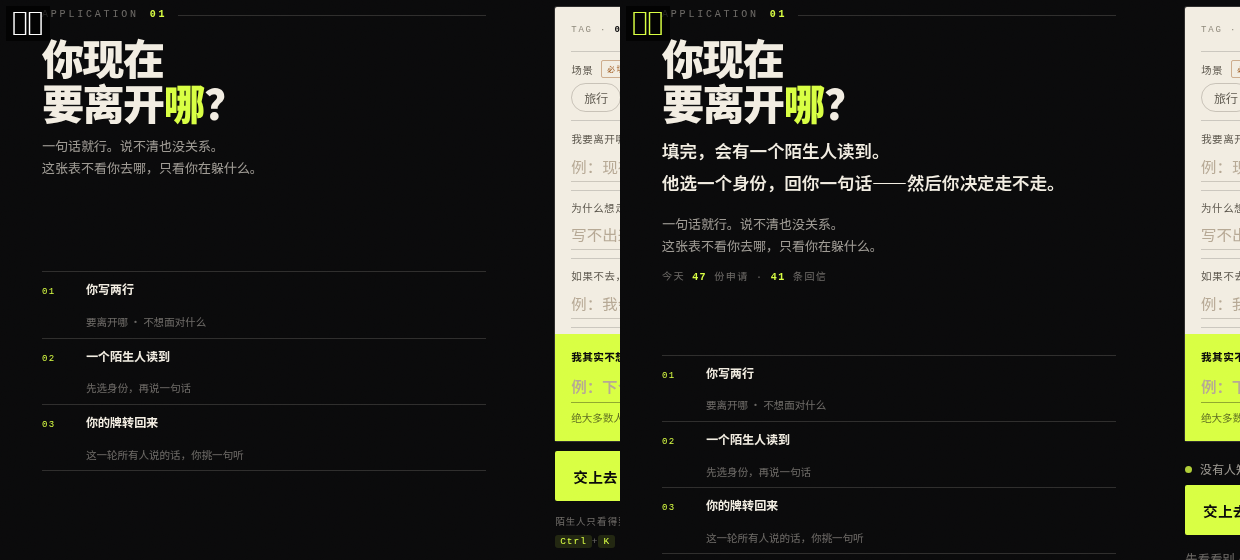
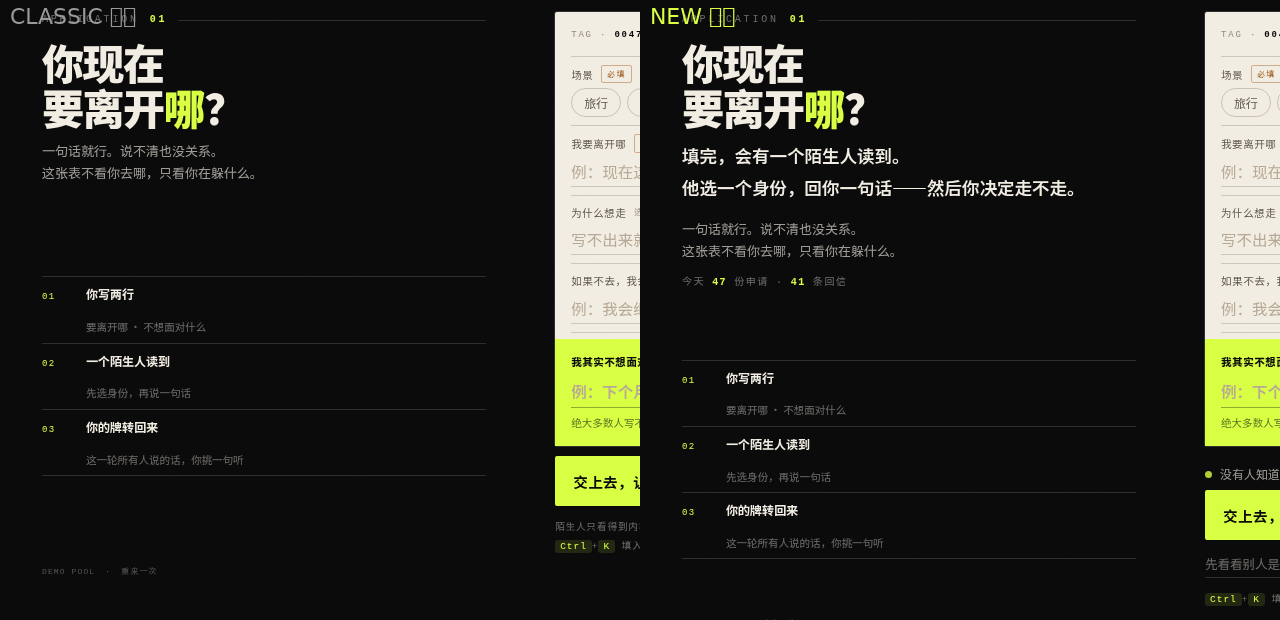
feat: 新版首屏摆一张真实的牌，让用户「看见」而不是「读到」
用户反馈：一句机制说明变化太小，没有体感。

改成：首屏左侧直接放一张别人交上来的行李牌——
「离开：这个城市 / 不想面对：我已经三年没交过新朋友」
右下角盖一个红色「27 人说再想想」的章。

打开的第一眼看到的不是问卷，是另一个人的两行字。
这张卡的内容来自 data.js 的演示池，数字来自 hydrate，在线轨是真实值。

「现在换你写两行 ↓」改成真按钮：点了滚到表单并聚焦第一格。
极矮屏下卡片瘦身（去掉表头、缩小字号），1280×720 不再溢出。

diff --git a/index.html b/index.html
@@ -277,6 +277,35 @@ h1.display em{ font-style:normal; color:var(--amber); }
   font-size:clamp(15px,2.6vw,17.5px); line-height:1.85; font-weight:600;
   color:var(--cream); margin-bottom:14px; max-width:26em;
 }
+.herocard{
+  position:relative; background:var(--paper); color:var(--ink);
+  padding:14px 16px 30px; margin:4px 0 12px; max-width:340px;
+  box-shadow:var(--shadow); transform:rotate(-1.3deg);
+}
+.hc-top{
+  font-family:var(--mono); font-size:8.5px; letter-spacing:.16em;
+  color:var(--ink-faint); margin-bottom:9px; padding-bottom:8px;
+  border-bottom:1px solid var(--rule);
+}
+.hc-row{ display:grid; grid-template-columns:56px 1fr; gap:8px; align-items:baseline; padding:3px 0; }
+.hc-row span{ font-family:var(--mono); font-size:8.5px; letter-spacing:.1em; color:var(--ink-faint); }
+.hc-row b{ font-size:14px; font-weight:700; line-height:1.5; }
+.hc-stamp{
+  position:absolute; right:12px; bottom:9px;
+  font-family:var(--sans); font-size:9.5px; letter-spacing:.08em;
+  color:var(--seal); border:1.5px solid var(--seal);
+  padding:1.5px 7px; transform:rotate(-6deg);
+}
+.herocap{
+  display:inline-flex; align-items:center; gap:6px;
+  font-family:var(--sans); font-size:14px; font-weight:700; color:var(--cream);
+  margin:0 0 14px; padding:0; border:0; background:none; cursor:pointer;
+  border-bottom:1px solid transparent; transition:.18s;
+}
+.herocap:hover{ color:var(--amber); border-bottom-color:var(--amber); }
+.herocap i{ font-style:normal; color:var(--amber); display:inline-block; animation:nudge 1.6s var(--ease) infinite; }
+@keyframes nudge{ 0%,100%{ transform:translateY(0) } 50%{ transform:translateY(4px) } }
+
 .proof{
   font-family:var(--mono); font-size:10px; letter-spacing:.14em;
   color:var(--cream-faint); margin-bottom:18px;
@@ -721,9 +750,44 @@ h1.display em{ font-style:normal; color:var(--amber); }
   .steps li{ padding:6px 0; }
   /* 新版多出的三行，在极矮屏收紧 */
   [data-layout="new"] .mech{ font-size:13.5px; line-height:1.6; margin-bottom:7px; }
-  [data-layout="new"] .proof{ display:none; }
+  [data-layout="new"] .herocard{
+  position:relative; background:var(--paper); color:var(--ink);
+  padding:14px 16px 30px; margin:4px 0 12px; max-width:340px;
+  box-shadow:var(--shadow); transform:rotate(-1.3deg);
+}
+.hc-top{
+  font-family:var(--mono); font-size:8.5px; letter-spacing:.16em;
+  color:var(--ink-faint); margin-bottom:9px; padding-bottom:8px;
+  border-bottom:1px solid var(--rule);
+}
+.hc-row{ display:grid; grid-template-columns:56px 1fr; gap:8px; align-items:baseline; padding:3px 0; }
+.hc-row span{ font-family:var(--mono); font-size:8.5px; letter-spacing:.1em; color:var(--ink-faint); }
+.hc-row b{ font-size:14px; font-weight:700; line-height:1.5; }
+.hc-stamp{
+  position:absolute; right:12px; bottom:9px;
+  font-family:var(--sans); font-size:9.5px; letter-spacing:.08em;
+  color:var(--seal); border:1.5px solid var(--seal);
+  padding:1.5px 7px; transform:rotate(-6deg);
+}
+.herocap{
+  display:inline-flex; align-items:center; gap:6px;
+  font-family:var(--sans); font-size:14px; font-weight:700; color:var(--cream);
+  margin:0 0 14px; padding:0; border:0; background:none; cursor:pointer;
+  border-bottom:1px solid transparent; transition:.18s;
+}
+.herocap:hover{ color:var(--amber); border-bottom-color:var(--amber); }
+.herocap i{ font-style:normal; color:var(--amber); display:inline-block; animation:nudge 1.6s var(--ease) infinite; }
+@keyframes nudge{ 0%,100%{ transform:translateY(0) } 50%{ transform:translateY(4px) } }
+
+.proof{ display:none; }
   [data-layout="new"] .privacy{ margin:10px 0 -2px; font-size:11px; }
   [data-layout="new"] .peek{ display:none; }   /* 极矮屏先砍掉这条次要入口 */
+  [data-layout="new"] .herocard{ padding:9px 12px 22px; margin-bottom:7px; max-width:300px; }
+  [data-layout="new"] .hc-top{ display:none; }
+  [data-layout="new"] .hc-row{ padding:1.5px 0; grid-template-columns:50px 1fr; }
+  [data-layout="new"] .hc-row b{ font-size:12.5px; }
+  [data-layout="new"] .hc-stamp{ font-size:8.5px; right:9px; bottom:7px; }
+  [data-layout="new"] .herocap{ font-size:12px; margin-bottom:8px; }
 }
 
 @media (max-width:640px){
@@ -793,6 +857,14 @@ html.static .pass-foot{ transform:translateX(-42px); opacity:.3; }
       <div class="kicker"><span>APPLICATION</span><b>01</b></div>
       <h1 class="display">你现在<br>要离开<em>哪</em>？</h1>
       <p class="mech" id="mechLine" hidden>填完，会有一个陌生人读到。<br>他选一个身份，回你一句话——然后你决定走不走。</p>
+
+      <div class="herocard" id="heroCard" hidden>
+        <div class="hc-top">刚才有人交上来这一份</div>
+        <div class="hc-row"><span>离开</span><b id="hcLeave">这个城市</b></div>
+        <div class="hc-row"><span>不想面对</span><b id="hcAvoid">我已经三年没交过新朋友</b></div>
+        <div class="hc-stamp" id="hcStamp">27 人说再想想</div>
+      </div>
+      <button type="button" class="herocap" id="heroCap" hidden>现在换你写两行 <i>↓</i></button>
       <p class="sub">一句话就行。说不清也没关系。<br>这张表不看你去哪，只看你在躲什么。</p>
       <p class="proof" id="proofLine" hidden>今天 <b id="proofPool">47</b> 份申请 · <b id="proofReply">41</b> 条回信</p>
     </div>
@@ -1112,7 +1184,7 @@ function setLayout(name, persist){
   else document.documentElement.setAttribute("data-layout", name);
 
   const on = name === "new";
-  ["mechLine","proofLine","privacyLine","peekLink","finePrivacy"].forEach(id => {
+  ["mechLine","proofLine","privacyLine","peekLink","heroCard","heroCap","finePrivacy"].forEach(id => {
     const el = document.getElementById(id);
     if(!el) return;
     el.hidden = (id === "finePrivacy") ? on : !on;   // 隐私句上移后，页脚那句藏起来
@@ -1124,6 +1196,14 @@ function setLayout(name, persist){
 
   if(persist){ try{ localStorage.setItem("lug-layout", name); }catch(e){} }
 }
+/* 首屏的「现在换你写两行」：点了直接落到表单第一格 */
+document.getElementById("heroCap").addEventListener("click", () => {
+  const f = document.getElementById("fLeaving");
+  const box = document.getElementById("applyForm");
+  if(box) box.scrollIntoView({ block:"center", behavior: reduceMotion() ? "auto" : "smooth" });
+  if(f) setTimeout(() => f.focus({ preventScroll:true }), 260);
+});
+
 document.getElementById("btnLayout").addEventListener("click", () => {
   setLayout(document.documentElement.getAttribute("data-layout") === "new" ? "classic" : "new", true);
 });
@@ -1178,6 +1258,9 @@ function hydrate(over){
   set("disclaimerN", m.reviewed);
   set("sealCount", m.reviewed > 0 ? (m.reviewed + " 人已阅") : (E.sealZero || "待读"));
   set("statApps", m.poolSize);
+  set("hcLeave", (D.applications[D.meta.demoIndex] || {}).leaving || "这个城市");
+  set("hcAvoid", (D.applications[D.meta.demoIndex] || {}).avoid || "我已经三年没交过新朋友");
+  set("hcStamp", m.think + " 人说再想想");
   set("proofPool", m.poolSize);
   set("proofReply", m.reviewed);
   set("statRoutes", D.routes.length);
